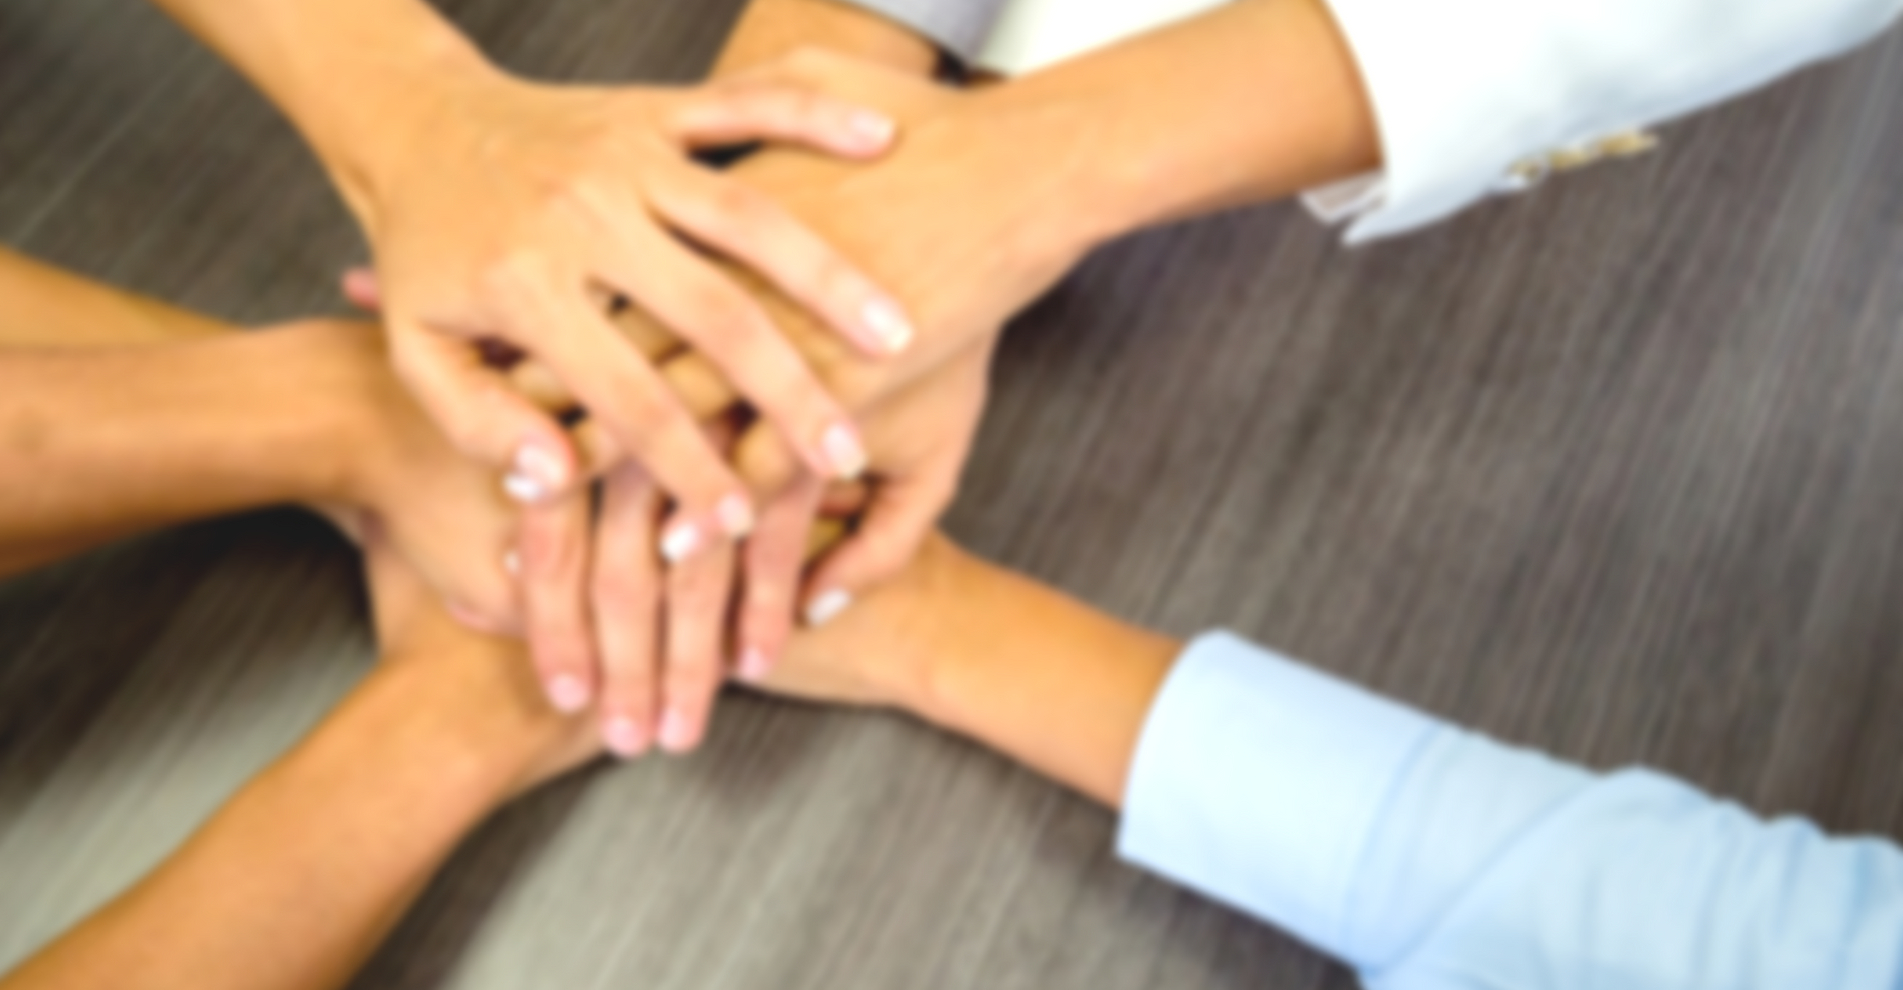
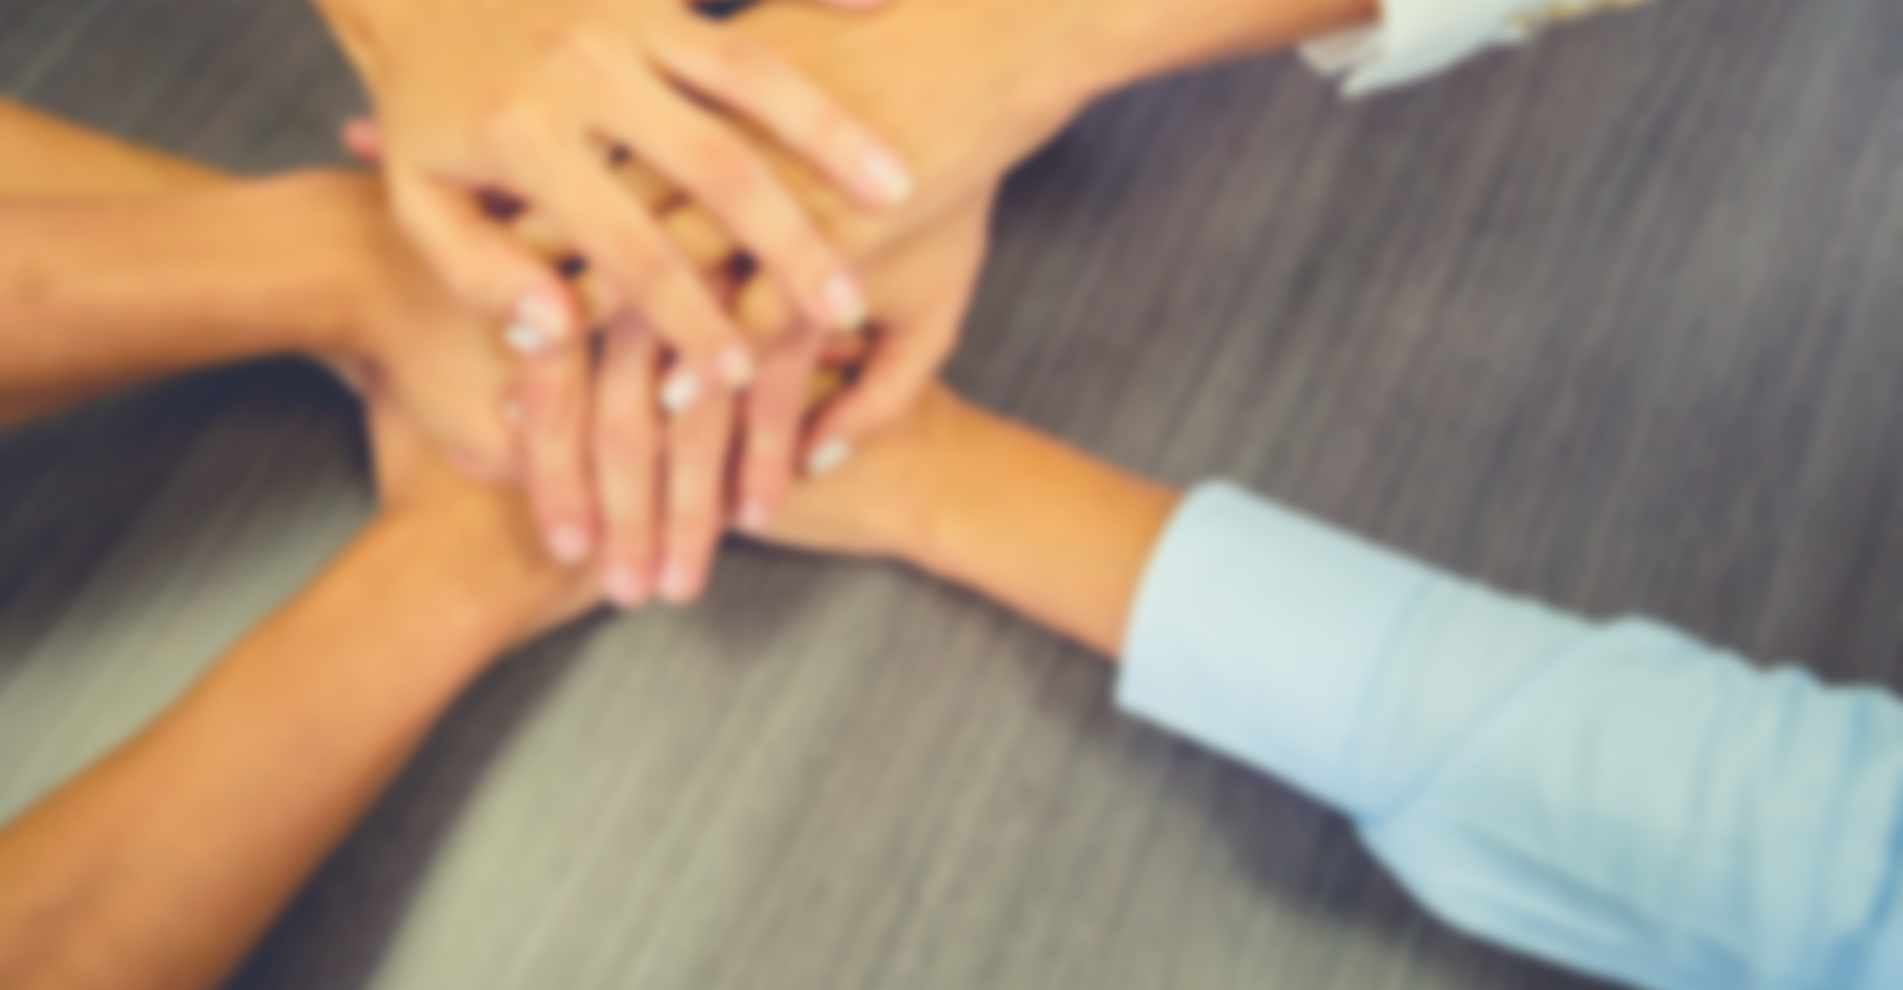
style(img,index.html)画像変更、メニューの各コンテンツ名を変更

diff --git a/index.html b/index.html
@@ -41,9 +41,9 @@
             <nav class="global_nav">
                 <ul>
                     <li><a href="#">HOME</a></li>
-                    <li><a href="#">PRODUCT</a></li>
-                    <li><a href="#">WORKS</a></li>
-                    <li><a href="#">COMPANY</a></li>
+                    <li><a href="#">ABOUT</a></li>
+                    <li><a href="#">MEMBERS</a></li>
+                    <li><a href="#">ACTIVITY</a></li>
                     <li><a href="#">CONTACT</a></li>
                 </ul>
             </nav>
